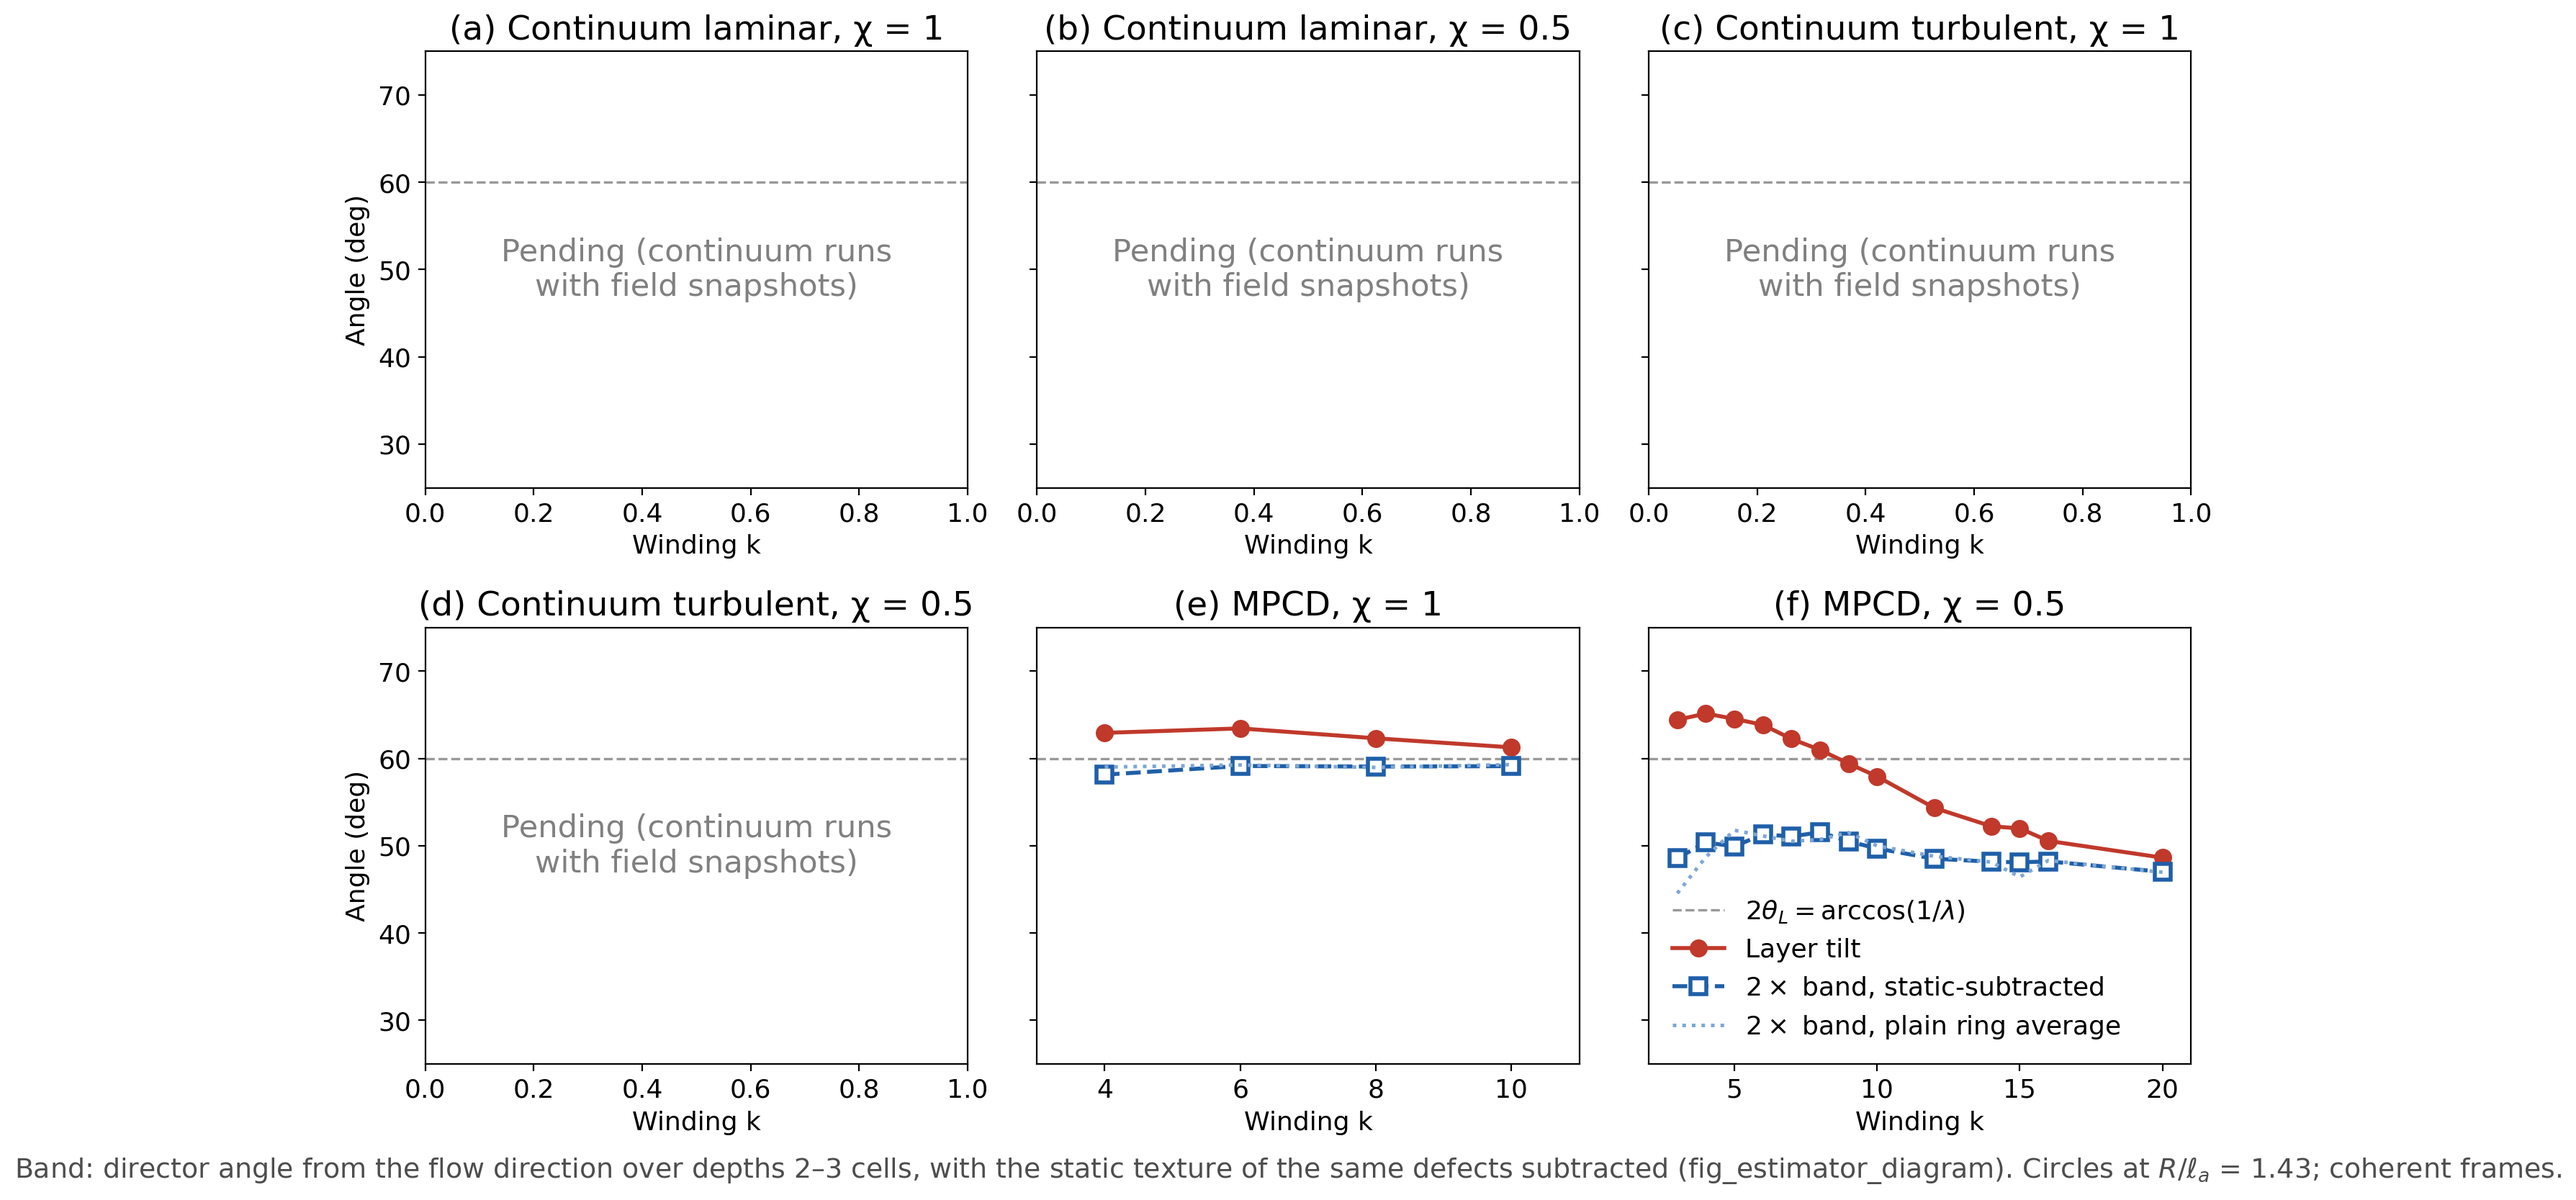
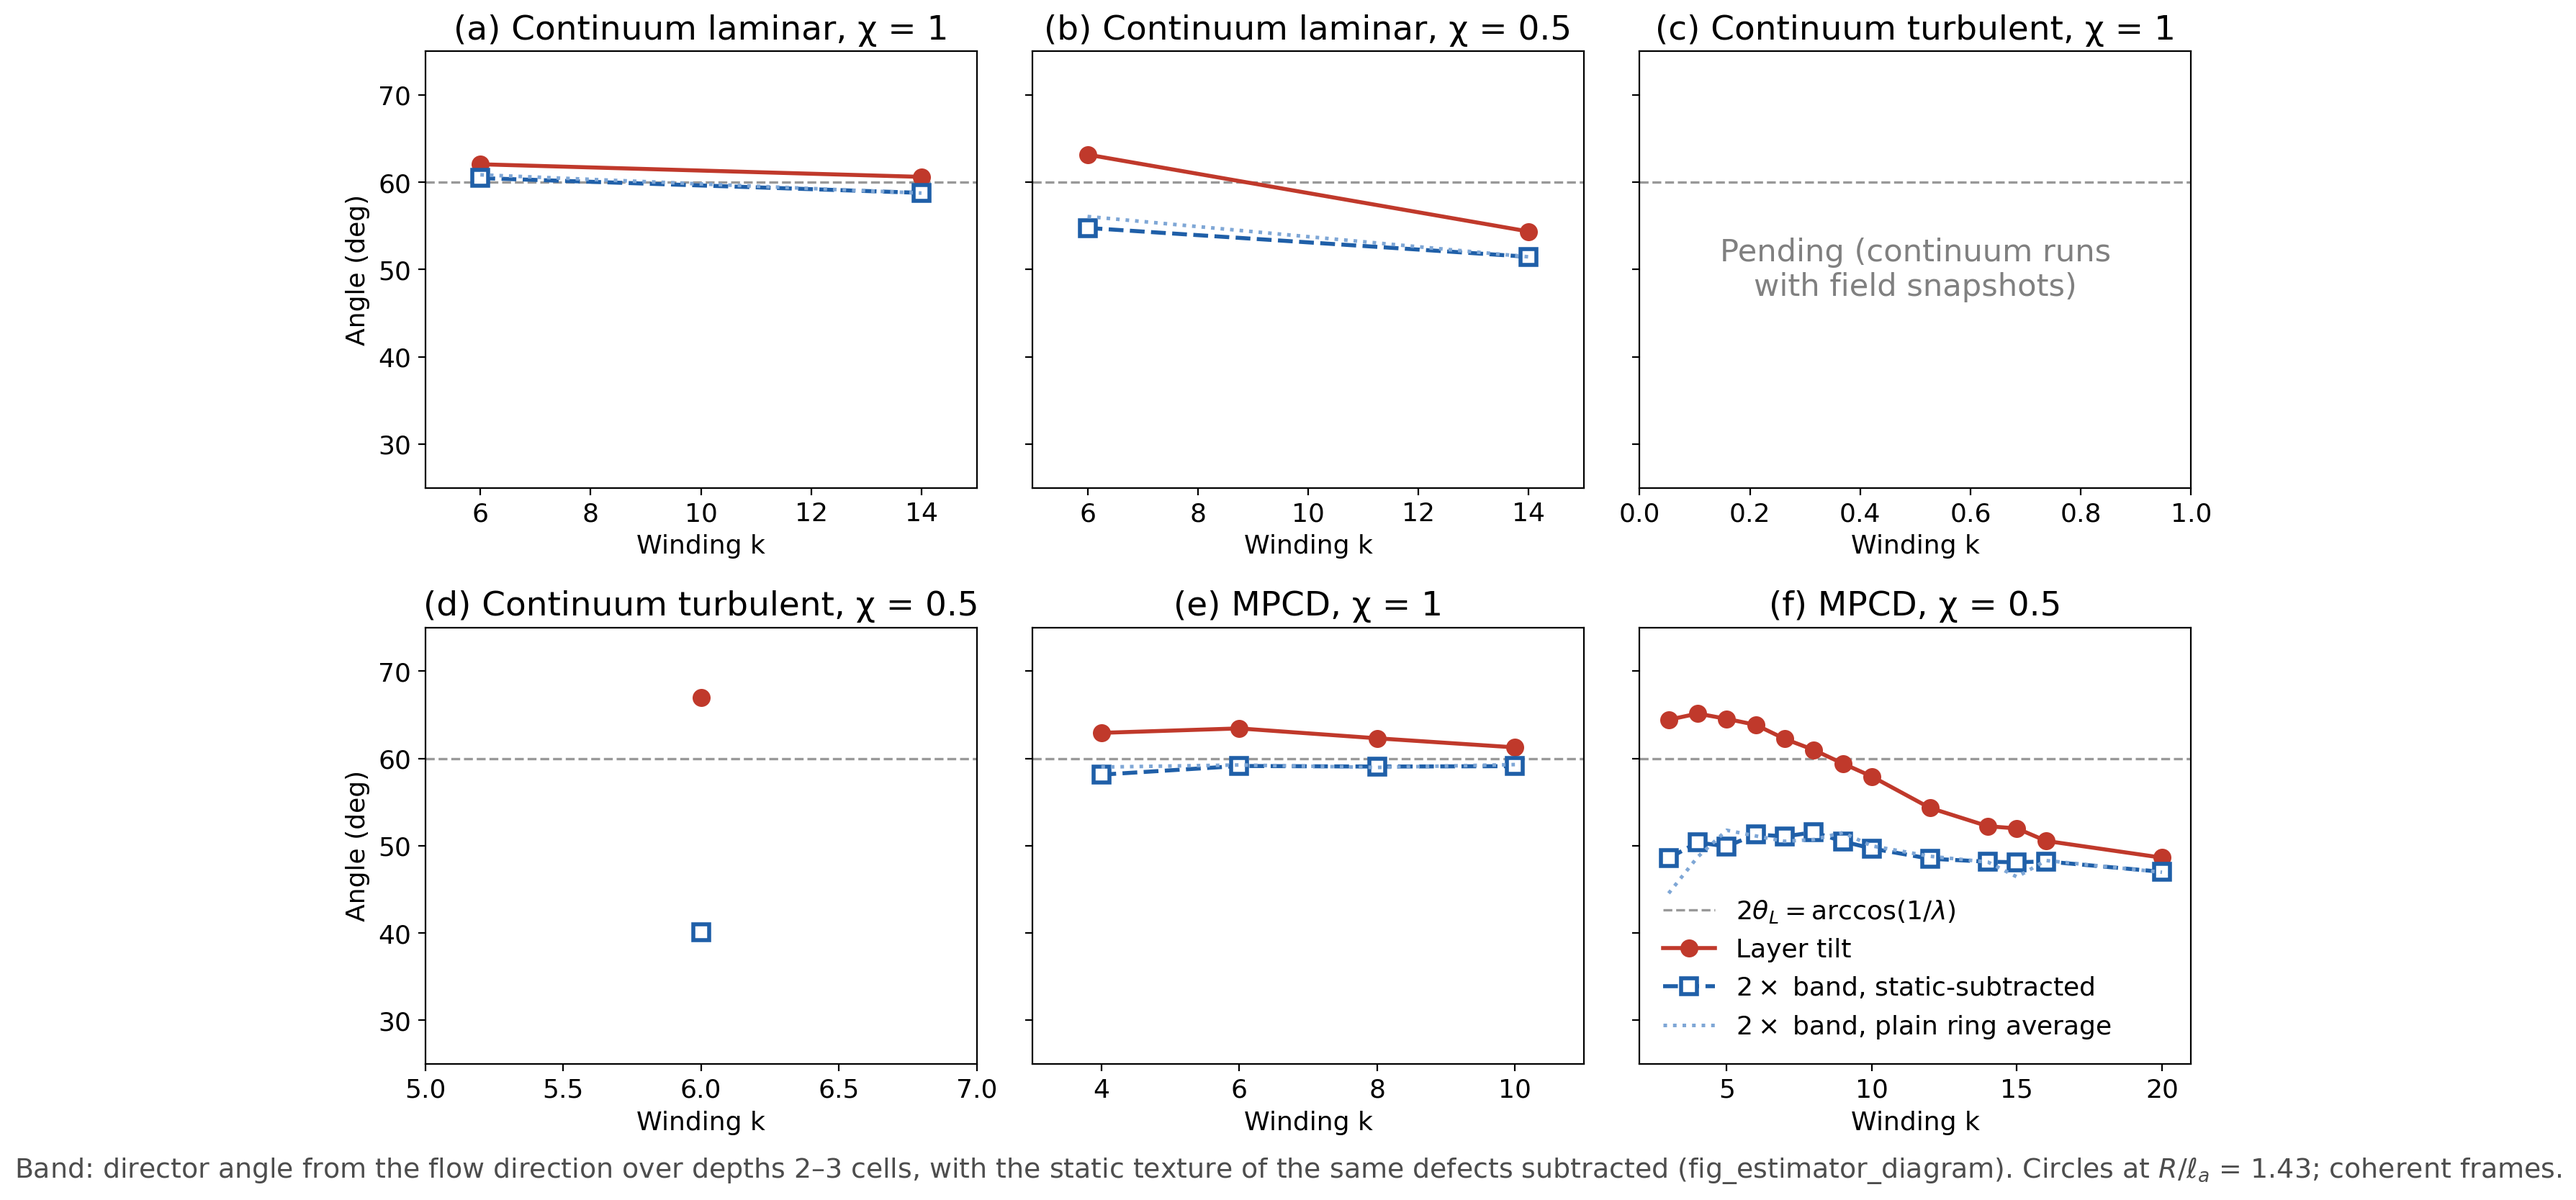
Continuum static-subtracted band: laminar shows the MPCD pattern (sparse tilt chi-independent, crowded locks to 2 x band); turbulent excluded (detector miscounts)

diff --git a/RESEARCH.md b/RESEARCH.md
@@ -2462,3 +2462,7 @@ Paper text using these maps carries a red TODO pointing here (PRL shielding/vaca
   Fits: sparse tilt chi-independent (64.8 vs 63.2 at k 4), crowded tilt chi-dependent (57.5 vs 61.2 at k 10) tracking the band; the passive imposed-vortex drop needs no self-flow (the picture uses only the flow profile); the October defect-centred local Leslie angle tracks the tilt.
   Not covered: the continuum drop at zeta 3-5 with chi 1 (band profile there never measured); leak suppression (per-defect band stiffness ~1/N; crowded layers are LESS tilted, yet leak less; the radial hold is separate).
   Tests proposed: (1) surrounding field on a ring 2-3 cells around each wall core (local wall frame) vs the local shear-aligned angle (sparse) and the band (crowded), existing data; (2) passive imposed vortex with shear confined to the first 2-3 cells; (3) continuum band profile at zeta 3-5.
+- (11:27) CONTINUUM STATIC-SUBTRACTED BAND (static_band.py cont on runs/continuum_chi/snap_*; fig_band_vs_tilt_static updated).
+  Laminar zeta 1: chi 1: 2 x band 60.5 (k 6) / 58.8 (k 14), tilt 62.1 / 60.6, gap 1.6 / 1.8. chi 0.5: 2 x band 54.8 / 51.5, tilt 63.2 / 54.4, gap 8.4 / 2.9.
+  => The same pattern as MPCD: the sparse tilt does not depend on chi (62.1 vs 63.2), the crowded tilt does (60.6 vs 54.4), and crowded layers lock to ~2 x band (gap ~2-3). Supports the working picture.
+  Turbulent zeta 8: NOT usable with this estimator. The continuum defect detector (S < 0.5 S0 clusters + winding at r 2.5) miscounts in turbulent frames: total charge 7-17 vs k = 6/14, and the wall count exceeds 2k-2. So the static texture would be wrong. Only 16 snapshots per run, and 1 run passes the selection. Would need a plaquette-winding detector (and longer runs) to include it.
